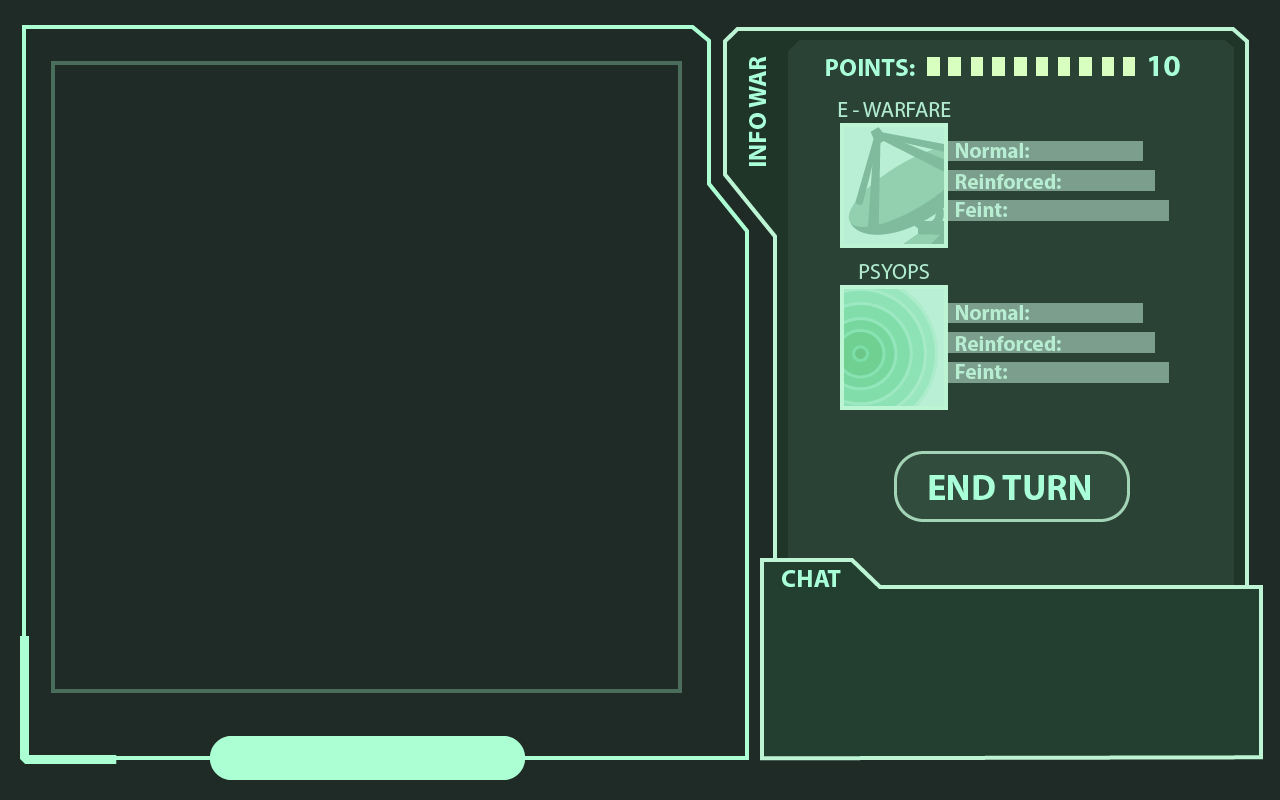
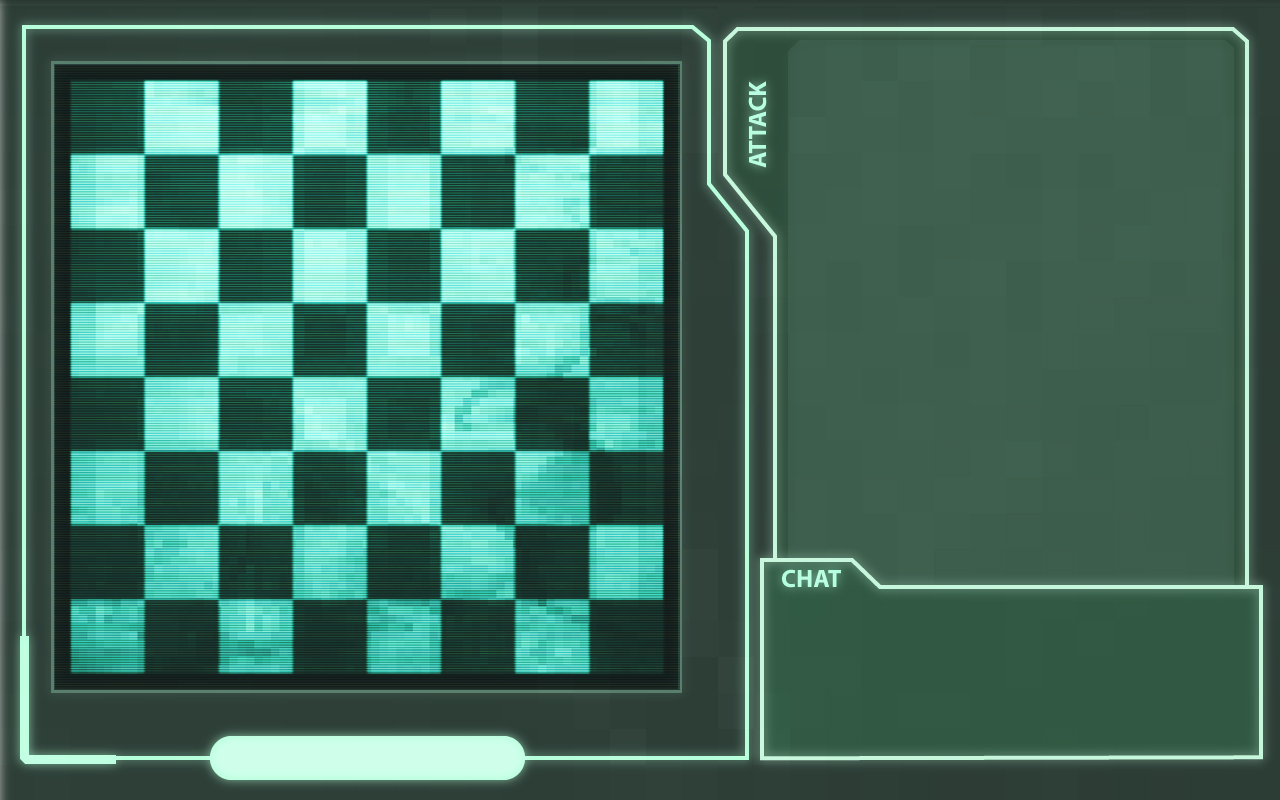
Integrate new playing background

diff --git a/assets/css/board.css b/assets/css/board.css
@@ -183,15 +183,27 @@ img.vertical-aligner {
 }
 
 #ew_main {
+  background: top left no-repeat url("../images/ew_actions_enabled.png");
+  background-size: 100%;
+}
+#ew_main.disabled {
+  background: top left no-repeat url("../images/ew_actions_disabled.png");
+  background-size: 100%;
 }
 #psyop_main {
+  background: top left no-repeat url("../images/psyop_actions_enabled.png");
+  background-size: 100%;
+}
+#psyop_main.disabled {
+  background: top left no-repeat url("../images/psyop_actions_disabled.png");
+  background-size: 100%;
 }
 .iw_main {
   position: absolute;
-  top: 29px;
-  left: 14px;
-  width: 109px;
-  height: 125px;
+  top: 7px;
+  left: 12px;
+  width: 113px;
+  height: 146px;
 }
 
 .strength {
@@ -205,20 +217,39 @@ img.vertical-aligner {
 }
 .strength.disabled {
   cursor: auto !important;
-  background: #000;
-  opacity: 0.5;
+}
+.strength.disabled span {
+  color: rgb(89, 118, 99);
 }
 .strength.first {
   width: 195px;
   top: 47px;
+  background: top left no-repeat url('../images/iw_normal_enabled.png');
+  background-size: 100%;
+}
+.strength.first.disabled {
+  background: top left no-repeat url('../images/iw_normal_disabled.png');
+  background-size: 100%;
 }
 .strength.second {
   width: 207px;
   top: 76px;
+  background: top left no-repeat url('../images/iw_reinforced_enabled.png');
+  background-size: 100%;
+}
+.strength.second.disabled {
+  background: top left no-repeat url('../images/iw_reinforced_disabled.png');
+  background-size: 100%;
 }
 .strength.third {
   width: 221px;
   top: 106px;
+  background: top left no-repeat url('../images/iw_feint_enabled.png');
+  background-size: 100%;
+}
+.strength.third.disabled {
+  background: top left no-repeat url('../images/iw_feint_disabled.png');
+  background-size: 100%;
 }
 
 #end_turn {
@@ -230,11 +261,13 @@ img.vertical-aligner {
   height: 72px;
   top: 410px;
   left: 106px;
+  background: top left no-repeat url('../images/end_turn_enabled.png');
+  background-size: 100%;
 }
 #end_turn.disabled {
   cursor: auto !important;
-  background: #000;
-  opacity: 0.5;
+  background: top left no-repeat url('../images/end_turn_disabled.png');
+  background-size: 100%;
 }
 
 #chat {

diff --git a/lib/client/main.js b/lib/client/main.js
@@ -466,9 +466,11 @@ require([
     var phases = g_gameState.PHASES;
 
     g_actions_enabled.pawn_capture = false;
+    g_actions_enabled.psyop_main = false;
     g_actions_enabled.psyop_normal = false;
     g_actions_enabled.psyop_reinforced = false;
     g_actions_enabled.psyop_feint = false;
+    g_actions_enabled.ew_main = false;
     g_actions_enabled.ew_normal = false;
     g_actions_enabled.ew_reinforced = false;
     g_actions_enabled.ew_feint = false;
@@ -486,9 +488,11 @@ require([
       g_actions_enabled.pawn_capture = true;
     } else if (phase === phases.IW) {
       //enable psyop, ew, end_turn, feint
+      g_actions_enabled.psyop_main = true;
       g_actions_enabled.psyop_normal = true;
       g_actions_enabled.psyop_reinforced = true;
       g_actions_enabled.psyop_feint = true;
+      g_actions_enabled.ew_main = true;
       g_actions_enabled.ew_normal = true;
       g_actions_enabled.ew_reinforced = true;
       g_actions_enabled.ew_feint = true;
@@ -519,10 +523,18 @@ require([
   }
 
   function updateIW() {
-    $("#psyop_normal #value").text(g_gameState.currentPsyOpAttackCost);
-    $("#psyop_reinforced #value").text(g_gameState.currentPsyOpDefendCost);
-    $("#ew_normal #value").text(g_gameState.currentEWAttackCost);
-    $("#ew_reinforced #value").text(g_gameState.currentEWDefendCost);
+    var pluralize = function(value) {
+      if (value === 1) {
+        return value + " point";
+      }
+      return value + " points";
+    };
+    $("#psyop_normal #value").text(pluralize(g_gameState.currentPsyOpAttackCost));
+    $("#psyop_reinforced #value").text(pluralize(g_gameState.currentPsyOpDefendCost));
+    $("#psyop_feint #value").text(pluralize(g_gameState.feintCost));
+    $("#ew_normal #value").text(pluralize(g_gameState.currentEWAttackCost));
+    $("#ew_reinforced #value").text(pluralize(g_gameState.currentEWDefendCost));
+    $("#ew_feint #value").text(pluralize(g_gameState.feintCost));
 
     renderPointsRemaining($("#action_selector #points_indicator"), g_gameState.remainingIW);
   }
